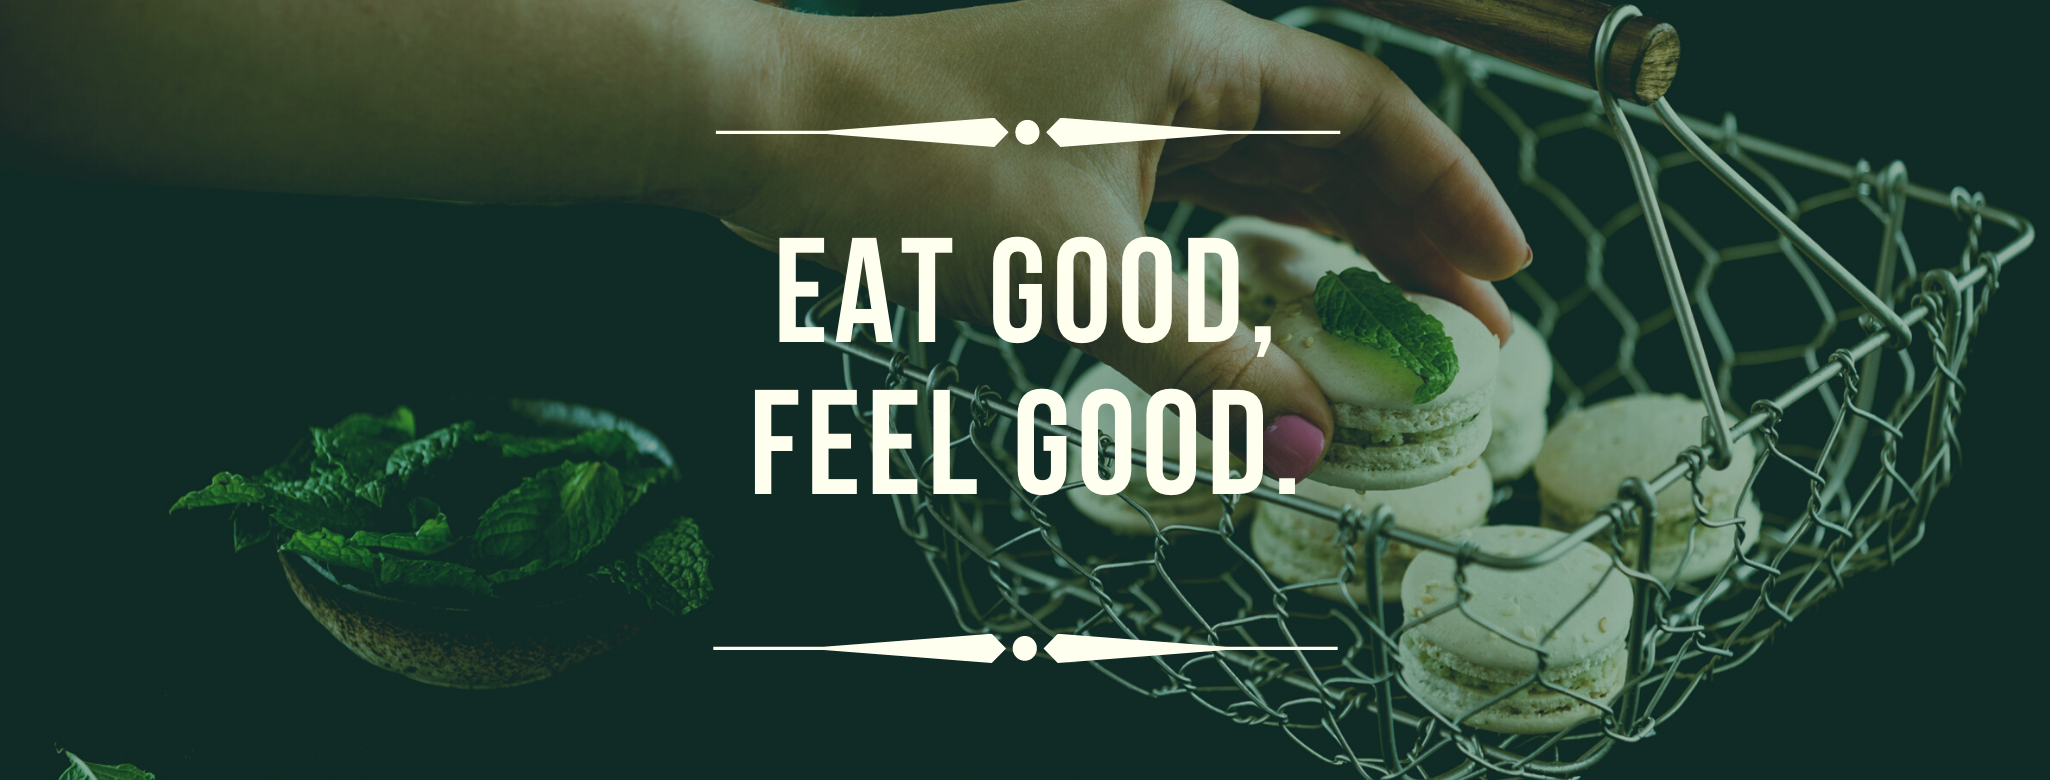
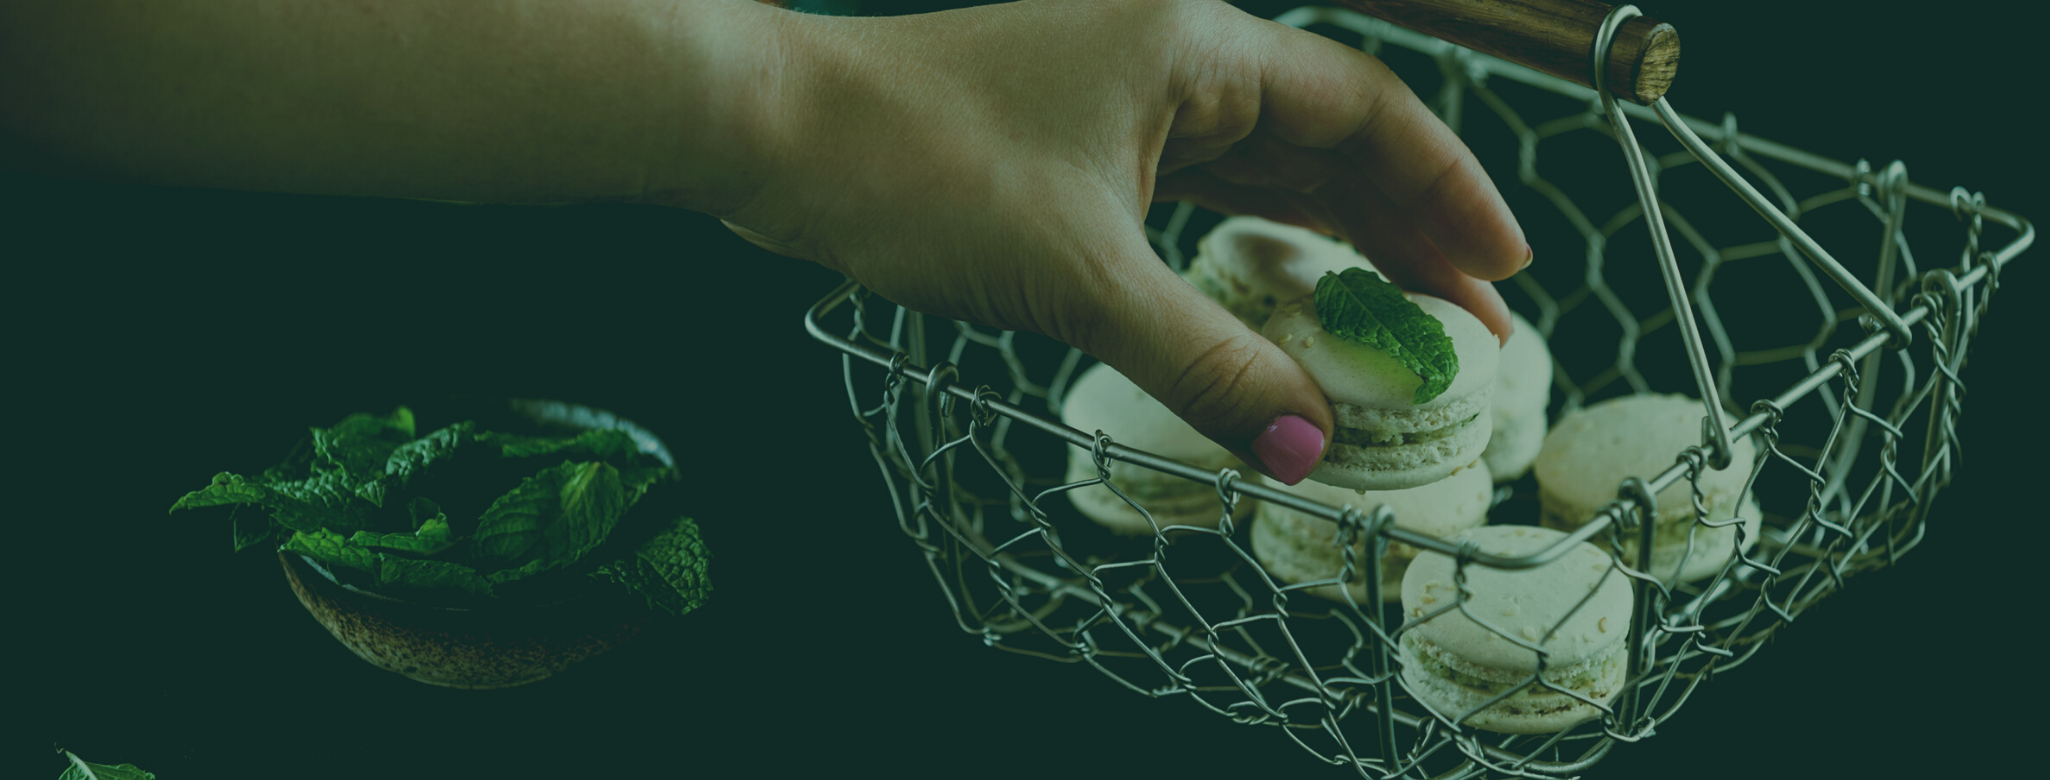
Add Home Page CSS

diff --git a/src/containers/FooderMaster/FooderMaster.js b/src/containers/FooderMaster/FooderMaster.js
@@ -1,8 +1,11 @@
 import React, { Component } from 'react';
 import NavBar from '../../components/NavBar/NavBar';
 import Footer from '../../components/Footer/Footer';
-import FooderBanner from '../../assets/images/foodermasterbanner.png';
+import classes from '../../containers/FooderMaster/FooderMaster.module.css';
 import axios from "axios";
+import DisplayHealthy from '../../assets/images/healthy_diet.png';
+import {Accordion,AccordionSummary,AccordionDetails} from '@material-ui/core';
+import ExpandMoreIcon from '@material-ui/icons/ExpandMore';
 
 class FooderMaster extends Component {
     constructor(props){
@@ -27,12 +30,91 @@ class FooderMaster extends Component {
         //count the length of checkout data
         const _gettotalcheckoutdata = this.state.foodercheckout.length;
 
+
         return (
             <div>
-                <NavBar countCheckoutItem={_gettotalcheckoutdata}/>
-                    
-                    <img src={FooderBanner} alt="FooderBanner"></img>
-                    
+                <NavBar countCheckoutItem={_gettotalcheckoutdata}/>    
+                    <div className={classes.FooderBanner}>
+                        <div className={classes.FooderBannerText}>
+                            <h2 style={{fontSize:"72px",fontWeight:"bold"}}>FOODER MALAYSIA</h2>
+                            <p>EAT MORE PAY LESS</p>
+                        </div>
+                    </div>
+                    <h2>OUR RECOMMENDATION</h2>
+                    <div className={classes.FoodMasterBlockSelector}>    
+                        <div className={classes.FoodMasterRecommendation}>
+                            <p style={{textAlign:"center",position:"relative",top:"45%"}}>SAMPLE FOOD</p>
+                            
+                        </div>
+                        <div className={classes.FoodMasterRecommendation}>
+                            <p style={{textAlign:"center",position:"relative",top:"45%"}}>SAMPLE FOOD</p>
+                        </div>
+                        <div className={classes.FoodMasterRecommendation}>
+                            <p style={{textAlign:"center",position:"relative",top:"45%"}}>SAMPLE FOOD</p>
+                        </div>
+                        <div className={classes.FoodMasterRecommendation}>
+                            <p style={{textAlign:"center",position:"relative",top:"45%"}}>SAMPLE FOOD</p>
+                        </div>
+                        <div className={classes.FoodMasterRecommendation}>
+                            <p style={{textAlign:"center",position:"relative",top:"45%"}}>SAMPLE FOOD</p>
+                        </div>
+                        <div className={classes.FoodMasterRecommendation}>
+                            <p style={{textAlign:"center",position:"relative",top:"45%"}}>SAMPLE FOOD</p>
+                        </div>
+                    </div>
+                    <div className={classes.FoodMasterBlockSelectorTwo}>
+                        <div className={classes.FoodMasterBlockPosition}>
+                            <img src={DisplayHealthy} alt="DisplayHealthy" className={classes.FoodMasterDisplayImage}/>
+                        </div>
+                        <h3>Why Choose Our Food ?</h3>
+                        <div className={classes.FoodMasterDisplayContent}>
+                            <li>No MSG</li>
+                            <li>100% No Preservatives</li>
+                            <li>Home Cooking</li>
+                            <li>It's Cheaper Than You Think</li>
+                            <li>Weekly Promotion</li>
+                        </div>
+                    </div>
+                    <div className={classes.FoodMasterFaq}>
+                        <h2>Frequently Asked Questions</h2>
+                        <br />
+                        <Accordion>
+                            <AccordionSummary
+                              expandIcon={<ExpandMoreIcon />}
+                              aria-controls="panel1a-content"
+                              id="panel1a-header">
+                                  <p>Lorem ipsum dolor sit amet</p>
+                            </AccordionSummary>
+                            <AccordionDetails>
+                                <p>Lorem ipsum dolor sit amet, consectetur adipiscing elit. Suspendisse malesuada lacus ex,
+                                sit amet blandit leo lobortis eget.</p>
+                            </AccordionDetails>
+                        </Accordion>
+                        <Accordion>
+                            <AccordionSummary
+                              expandIcon={<ExpandMoreIcon />}
+                              aria-controls="panel1a-content"
+                              id="panel1a-header">
+                                  <p>Lorem ipsum dolor sit amet</p>
+                            </AccordionSummary>
+                            <AccordionDetails>
+                                <p>Lorem ipsum dolor sit amet, consectetur adipiscing elit. Suspendisse malesuada lacus ex,
+                                sit amet blandit leo lobortis eget.</p>
+                            </AccordionDetails>
+                        </Accordion>
+                        <Accordion>
+                            <AccordionSummary
+                              expandIcon={<ExpandMoreIcon />}
+                              aria-controls="panel1a-content"
+                              id="panel1a-header">
+                                  <p>Lorem ipsum dolor sit amet</p>
+                            </AccordionSummary>
+                            <AccordionDetails>
+                                <p>Lorem ipsum dolor sit amet, consectetur adipiscing elit. Suspendisse malesuada lacus ex,
+                                sit amet blandit leo lobortis eget.</p>
+                            </AccordionDetails>
+                        </Accordion>
+                    </div>
                 <Footer />
             </div>
         );

diff --git a/src/containers/FooderMaster/FooderMaster.module.css b/src/containers/FooderMaster/FooderMaster.module.css
@@ -1,0 +1,117 @@
+.FooderBanner{
+    background-image:url('../../assets/images/foodermasterbanner.png');
+    background-position: 50%;
+    background-attachment: fixed;
+    background-repeat: no-repeat;
+    background-size: cover;
+    height:600px;
+    position: relative;
+    z-index: -1;
+}
+
+.FooderBanner .FooderBannerText{
+    text-align:center;
+    position:absolute;
+    top:55%;
+    left:50%;
+    transform: translate(-50%, -50%);
+    color:white;
+    font-family: Arial, Helvetica, sans-serif;
+    animation: fadeIn ease 3s;
+    text-shadow: 0px 4px 3px rgba(0,0,0,0.4),
+             0px 8px 13px rgba(0,0,0,0.1),
+             0px 18px 23px rgba(0,0,0,0.1)
+}
+
+.FoodMasterBlockSelector{
+    border:0;
+    margin-top:20px;
+    height:650px;
+    display:grid;
+    grid-template-columns: auto auto auto;
+    margin-left: auto;
+    margin-right: auto;
+    width:80%;
+    padding:16px 14px;
+    margin-bottom: 20px;
+    border-radius: 2%;
+    box-shadow: 3px 3px 3px 3px #ccc;
+}
+
+.FoodMasterBlockSelector .FoodMasterRecommendation {
+    border:0;
+    margin-top:30px;
+    margin:10px;
+    border-radius: 2%;
+    box-shadow: 3px 3px 3px 3px #ccc;
+}
+
+.FoodMasterBlockSelectorTwo{
+    background-color: #f7f7f7;
+    height:400px;
+}
+
+.FoodMasterBlockSelectorTwo .FoodMasterBlockPosition{
+    border:0;
+    position: absolute;
+    left:70%;
+    margin-top:4.5%;
+}
+
+.FoodMasterBlockSelectorTwo h3 {
+    position:absolute;
+    left:20%;
+    margin-top:1.5%;
+}
+
+.FoodMasterDisplayImage{
+    height:250px;
+    width:250px;
+    z-index: 99;
+}
+
+.FoodMasterDisplayContent{
+    position:relative;
+    top: 15%;
+    left: 20%;
+    line-height: 2.5;
+}
+
+.FoodMasterFaq{
+    background-color: white;
+    height:700px;
+    width:70%;
+    position:absolute;
+    left:15%;
+    margin-top: 10px;
+}
+
+
+@keyframes fadeIn {
+    0% {opacity:0;}
+    100% {opacity:1;}
+}
+
+/* Mobile One----------- */
+@media only screen 
+and (max-width : 768px) {
+/* Styles */
+.FoodMasterBlockSelector{
+    display:block;
+    height:150vh;
+}
+.FoodMasterBlockSelector .FoodMasterRecommendation {
+    height:15%;
+}
+}
+
+/* Desktops and laptops ----------- */
+@media only screen 
+and (min-width : 1224px) {
+/* Styles */
+
+.FoodMasterBlockSelector{
+    display:grid;
+    grid-template-columns: auto auto auto;
+}
+}

diff --git a/src/components/NavBar/NavBar.js b/src/components/NavBar/NavBar.js
@@ -4,7 +4,6 @@ import NavItem from './NavItem/NavItem';
 import ShoppingCartIcon  from '@material-ui/icons/ShoppingCart';
 import HelpIcon from '@material-ui/icons/Help';
 import NotificationsIcon from '@material-ui/icons/Notifications';
-import SearchBar from './SearchBar/SearchBar';
 import Logo from '../Logo/Logo';
 import DrawerIcon from './Drawer/Drawer';
 import {Link} from "react-router-dom";

diff --git a/src/components/FoodController/FoodController.module.css b/src/components/FoodController/FoodController.module.css
@@ -35,6 +35,7 @@
     box-shadow: 3px 3px 3px 3px #ccc;
     padding-bottom:10px;  
     border-radius: 2%;
+    padding:14px 12px;
 }
 
 .BlockSelector h3 {
@@ -54,7 +55,7 @@
     margin-left: auto;
     margin-right: auto;
     border:0;
-    margin-top: 20px;
+    margin-top: 10%;
     box-shadow: 3px 3px 3px 3px #ccc;
     border-radius: 2%;
 }

diff --git a/src/containers/Checkout/Checkout.module.css b/src/containers/Checkout/Checkout.module.css
@@ -14,7 +14,7 @@ h2 {
 .CheckoutBlockSelector{
     border: 0;
     width:25%;
-    margin-top: 20px;
+    margin-top: 10%;
     position:relative;
     left:52%;
     padding-top:20px;

diff --git a/src/containers/FooderMenu/FooderMenu.module.css b/src/containers/FooderMenu/FooderMenu.module.css
@@ -22,6 +22,7 @@
     margin-left: auto;
     margin-right: auto;
     box-shadow: 3px 3px 3px 3px #ccc;
+    padding:14px 12px;
     padding-bottom:10px;
     border-radius: 2%;
 }

diff --git a/src/components/NavBar/NavBar.module.css b/src/components/NavBar/NavBar.module.css
@@ -2,6 +2,9 @@
     height: 90px;
     width: 100%;
     background-color: lightseagreen;
+    position:fixed;
+    top:0;
+    z-index:99;
 }
 
 .NavBar .NotificationIcons{
